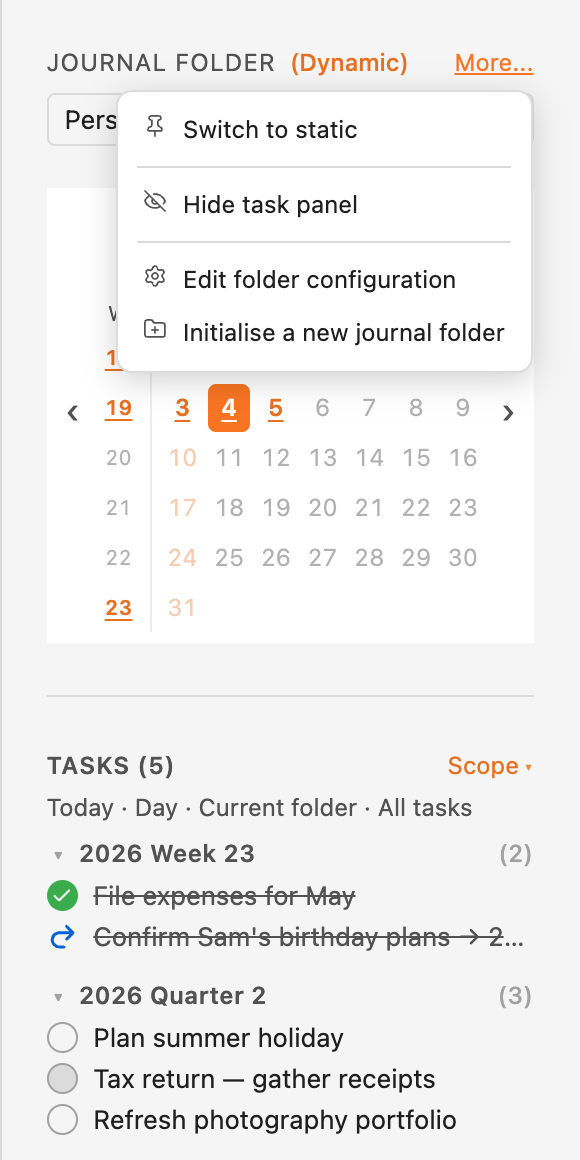
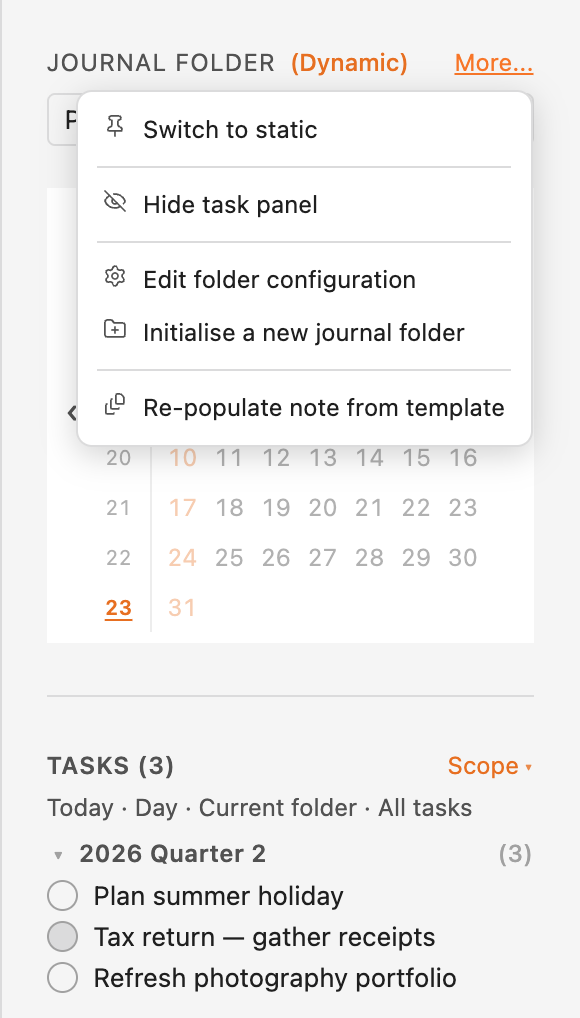
Add e2e for Re-populate from template; update README + screenshot
- New template-repopulate.spec.mjs (4 tests): the sidebar More... item
  appears for a journal note and overwrites it after confirming, cancel
  leaves the note unchanged, and the item is absent for a non-journal note
  and when auto-template is off. All green against the live e2e vault.
- README: document "Re-applying a template to an existing note" under the
  auto-fill section.
- Regenerate docs/screenshots/sidebar-more-menu.png — the menu now includes
  the Re-populate note from template action.

diff --git a/README.md b/README.md
@@ -325,6 +325,12 @@ Because templates are real notes, opening one that contains a `journal-header` b
 
 ![A monthly template note previewed live as the current month, with the TEMPLATE ribbon in the corner](docs/screenshots/template-preview.png)
 
+### Re-applying a template to an existing note
+
+Edited a template after you'd already created some notes? Open one of those notes and use **Re-populate note from template** in the sidebar's **More...** menu to re-apply the current template. The item only appears when the active note is a journal note in a templating-enabled folder. It **replaces the whole note**, so it asks you to confirm first — there's no undo beyond Obsidian's own.
+
+![The sidebar More... menu, with the Re-populate note from template action](docs/screenshots/sidebar-more-menu.png)
+
 ### Template precedence
 
 For a new note the body is resolved in this order, **first non-empty wins**:
